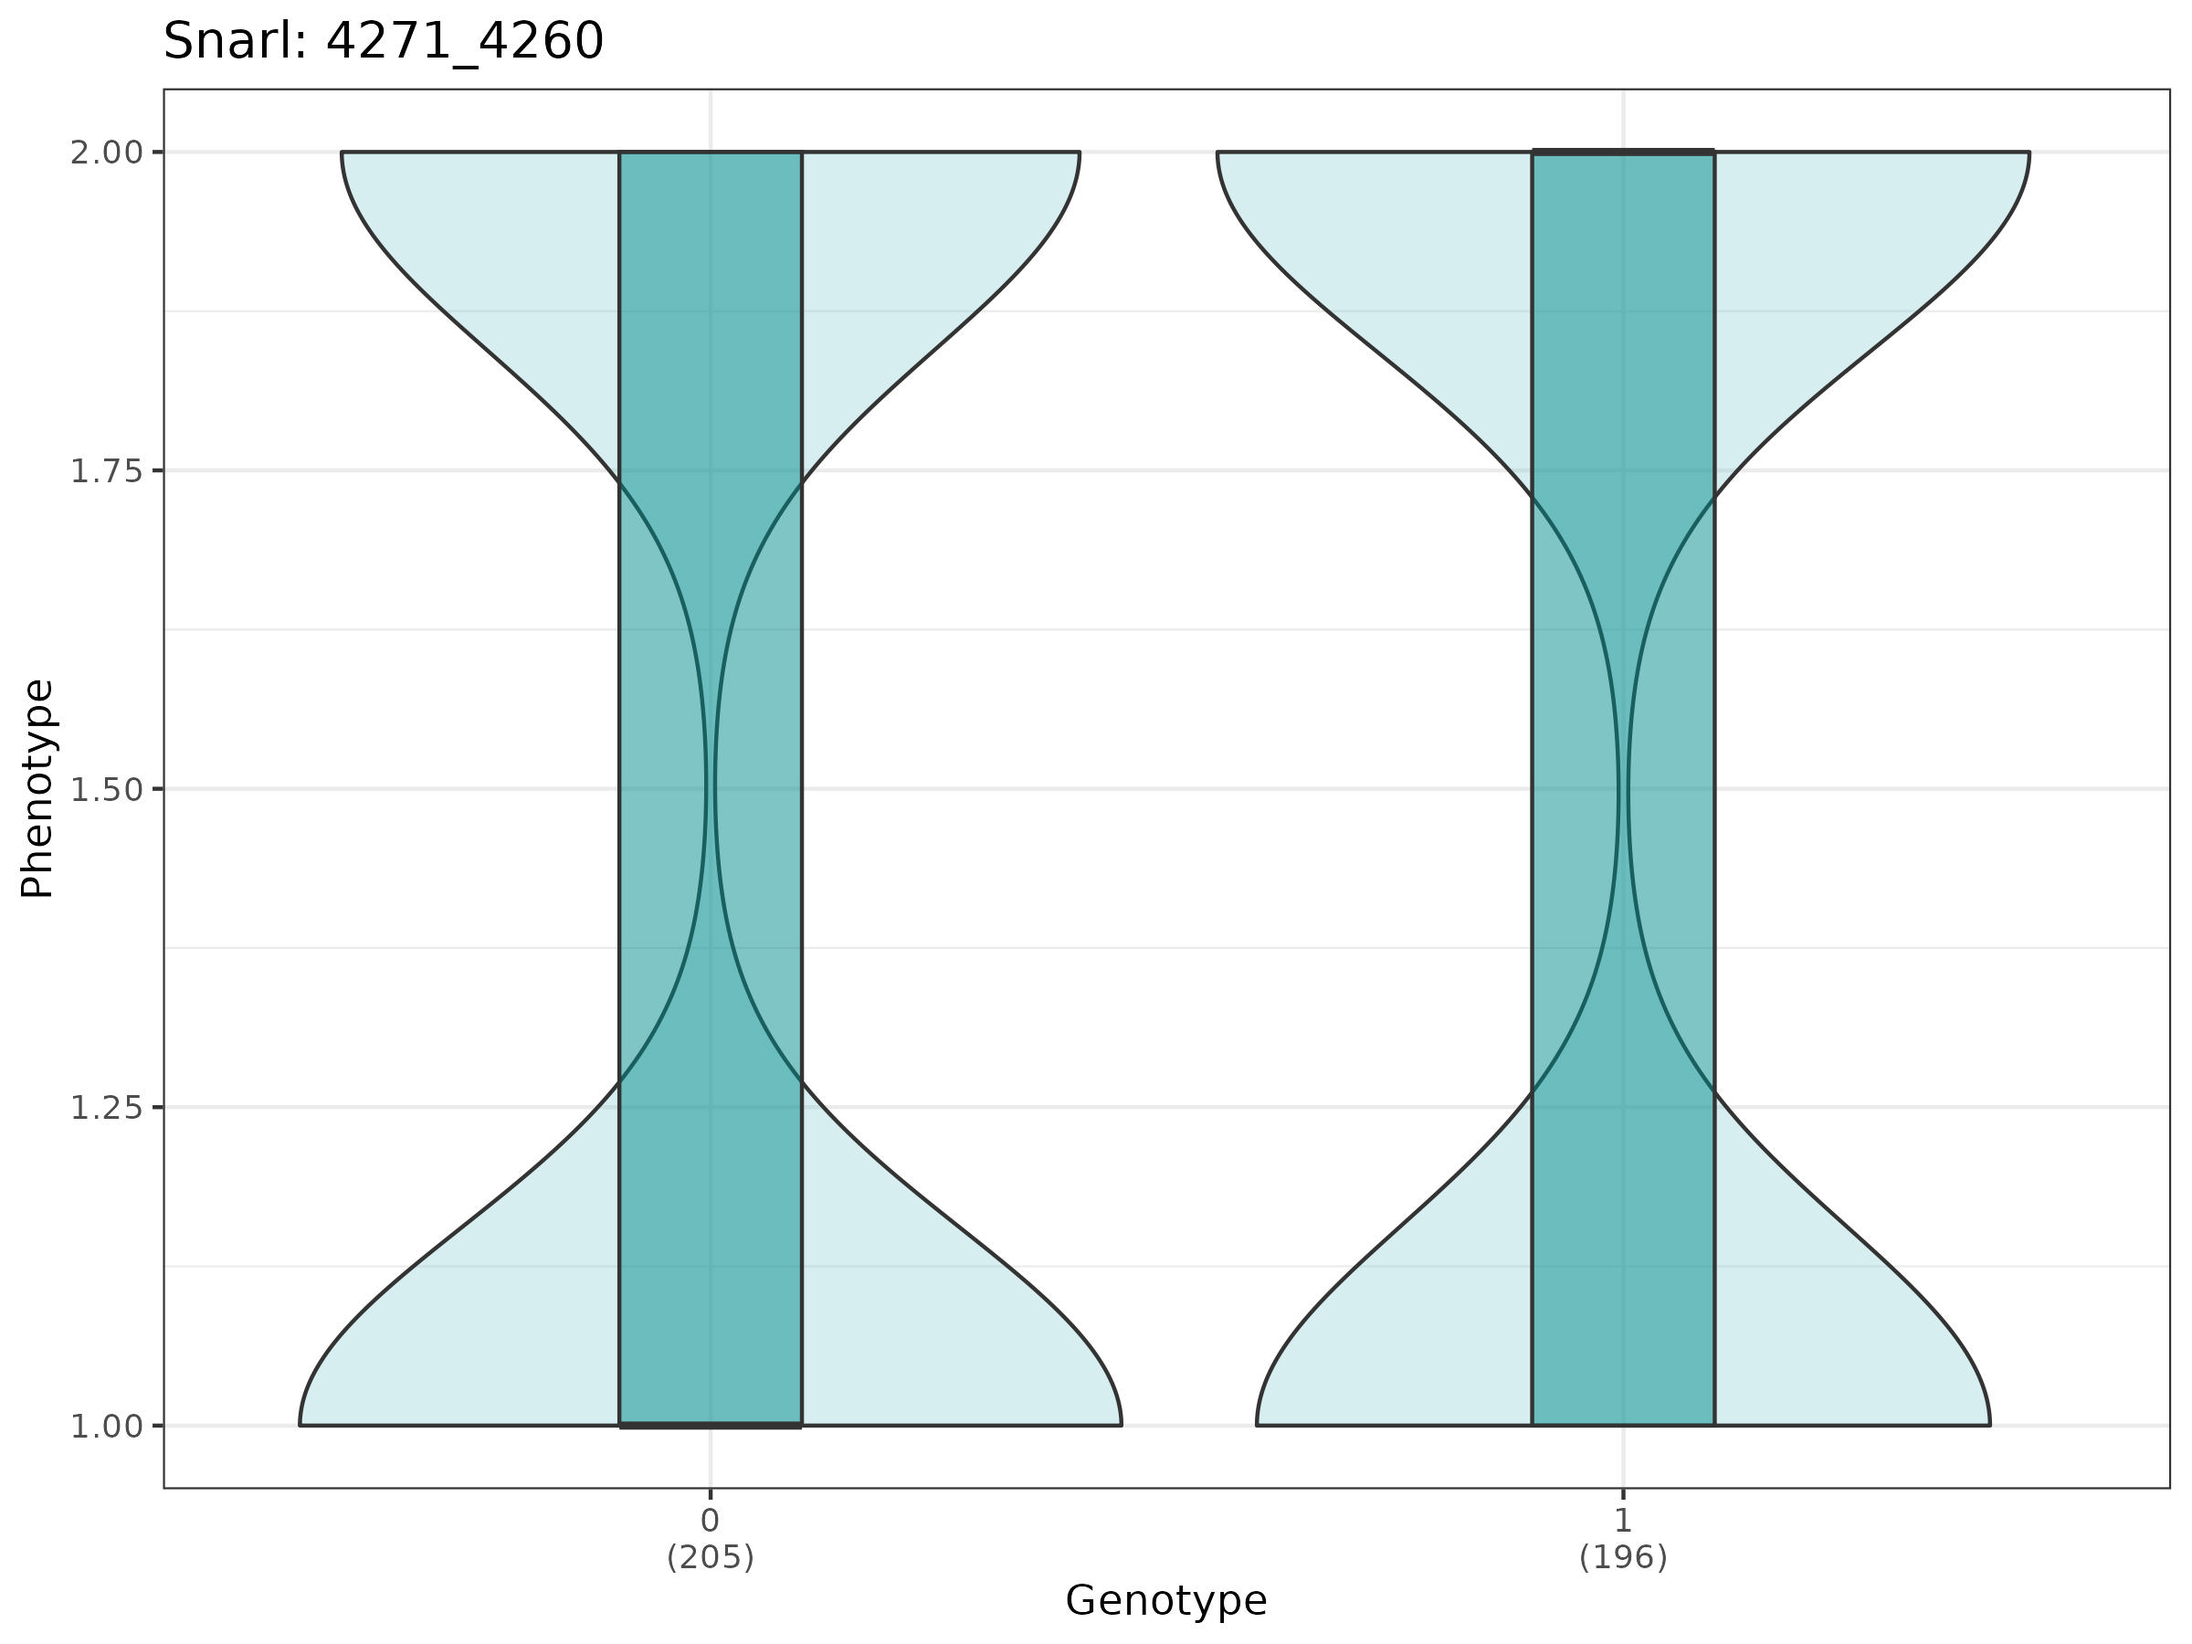
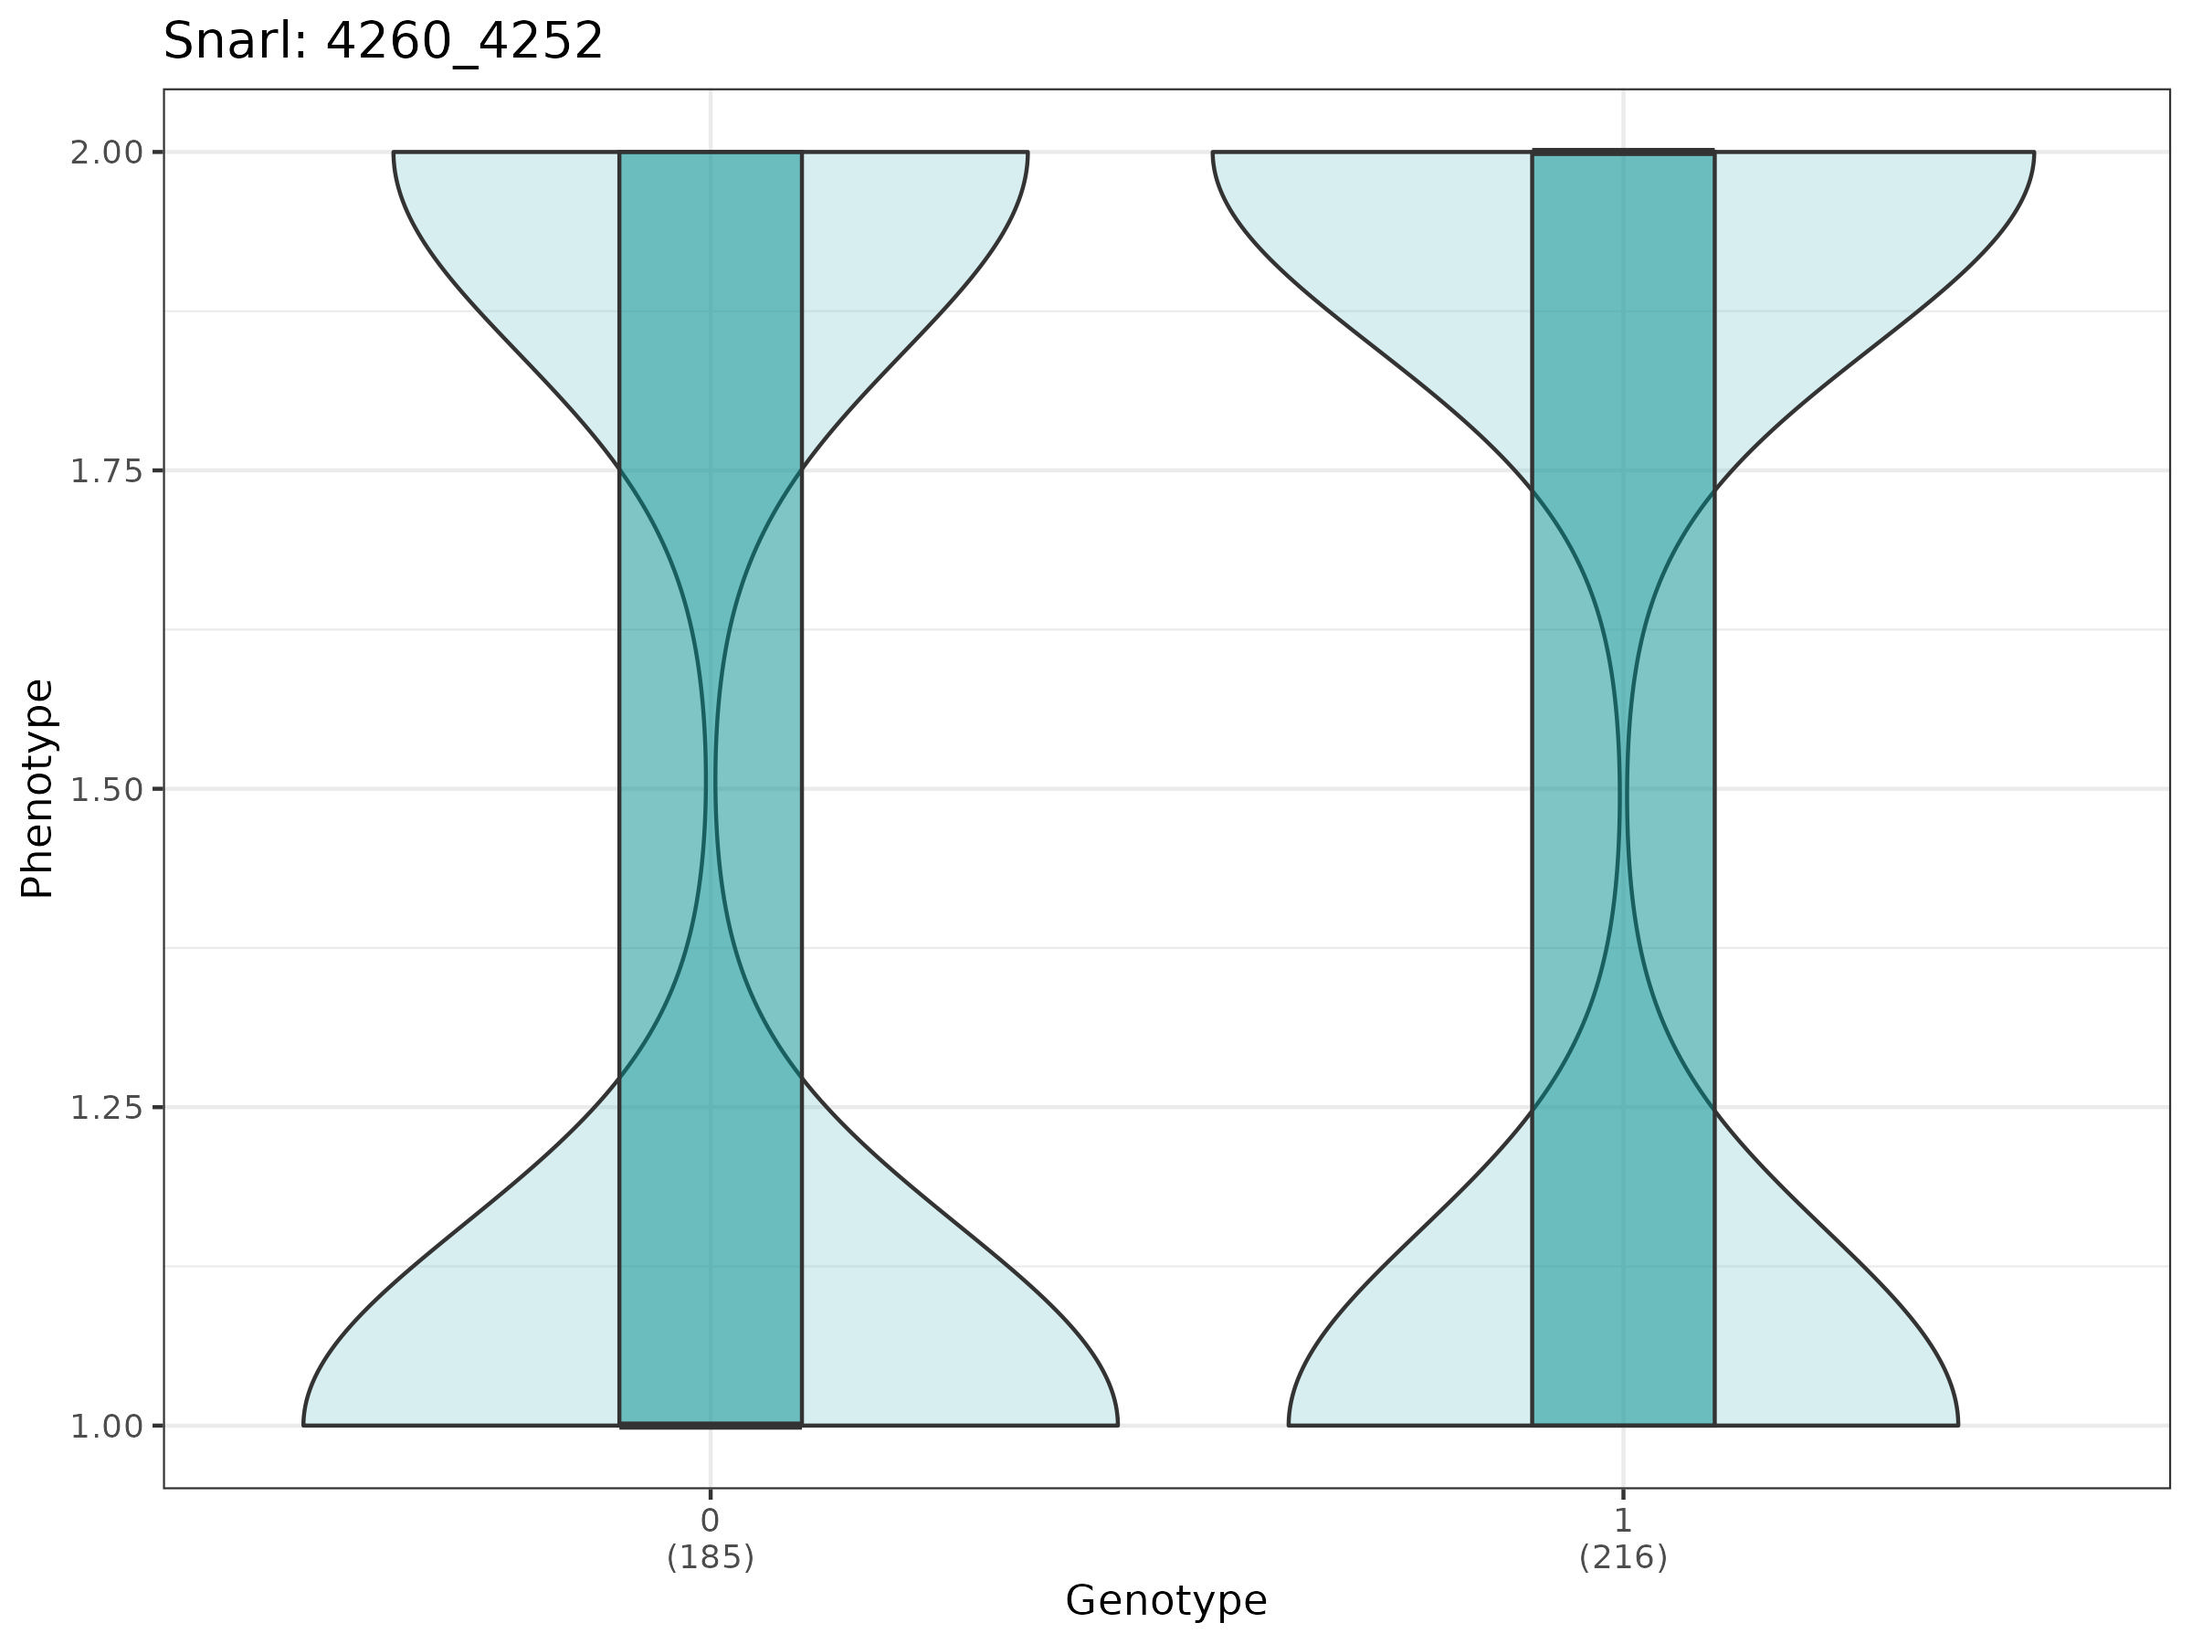
%>% correction

diff --git a/README.md b/README.md
@@ -94,6 +94,7 @@ This package imports:
 * `ggplot2`
 * `dplyr`
 * `tools`
+* `tidyr`
 
 Make sure these packages are installed before using `stoatPlot`.
 
